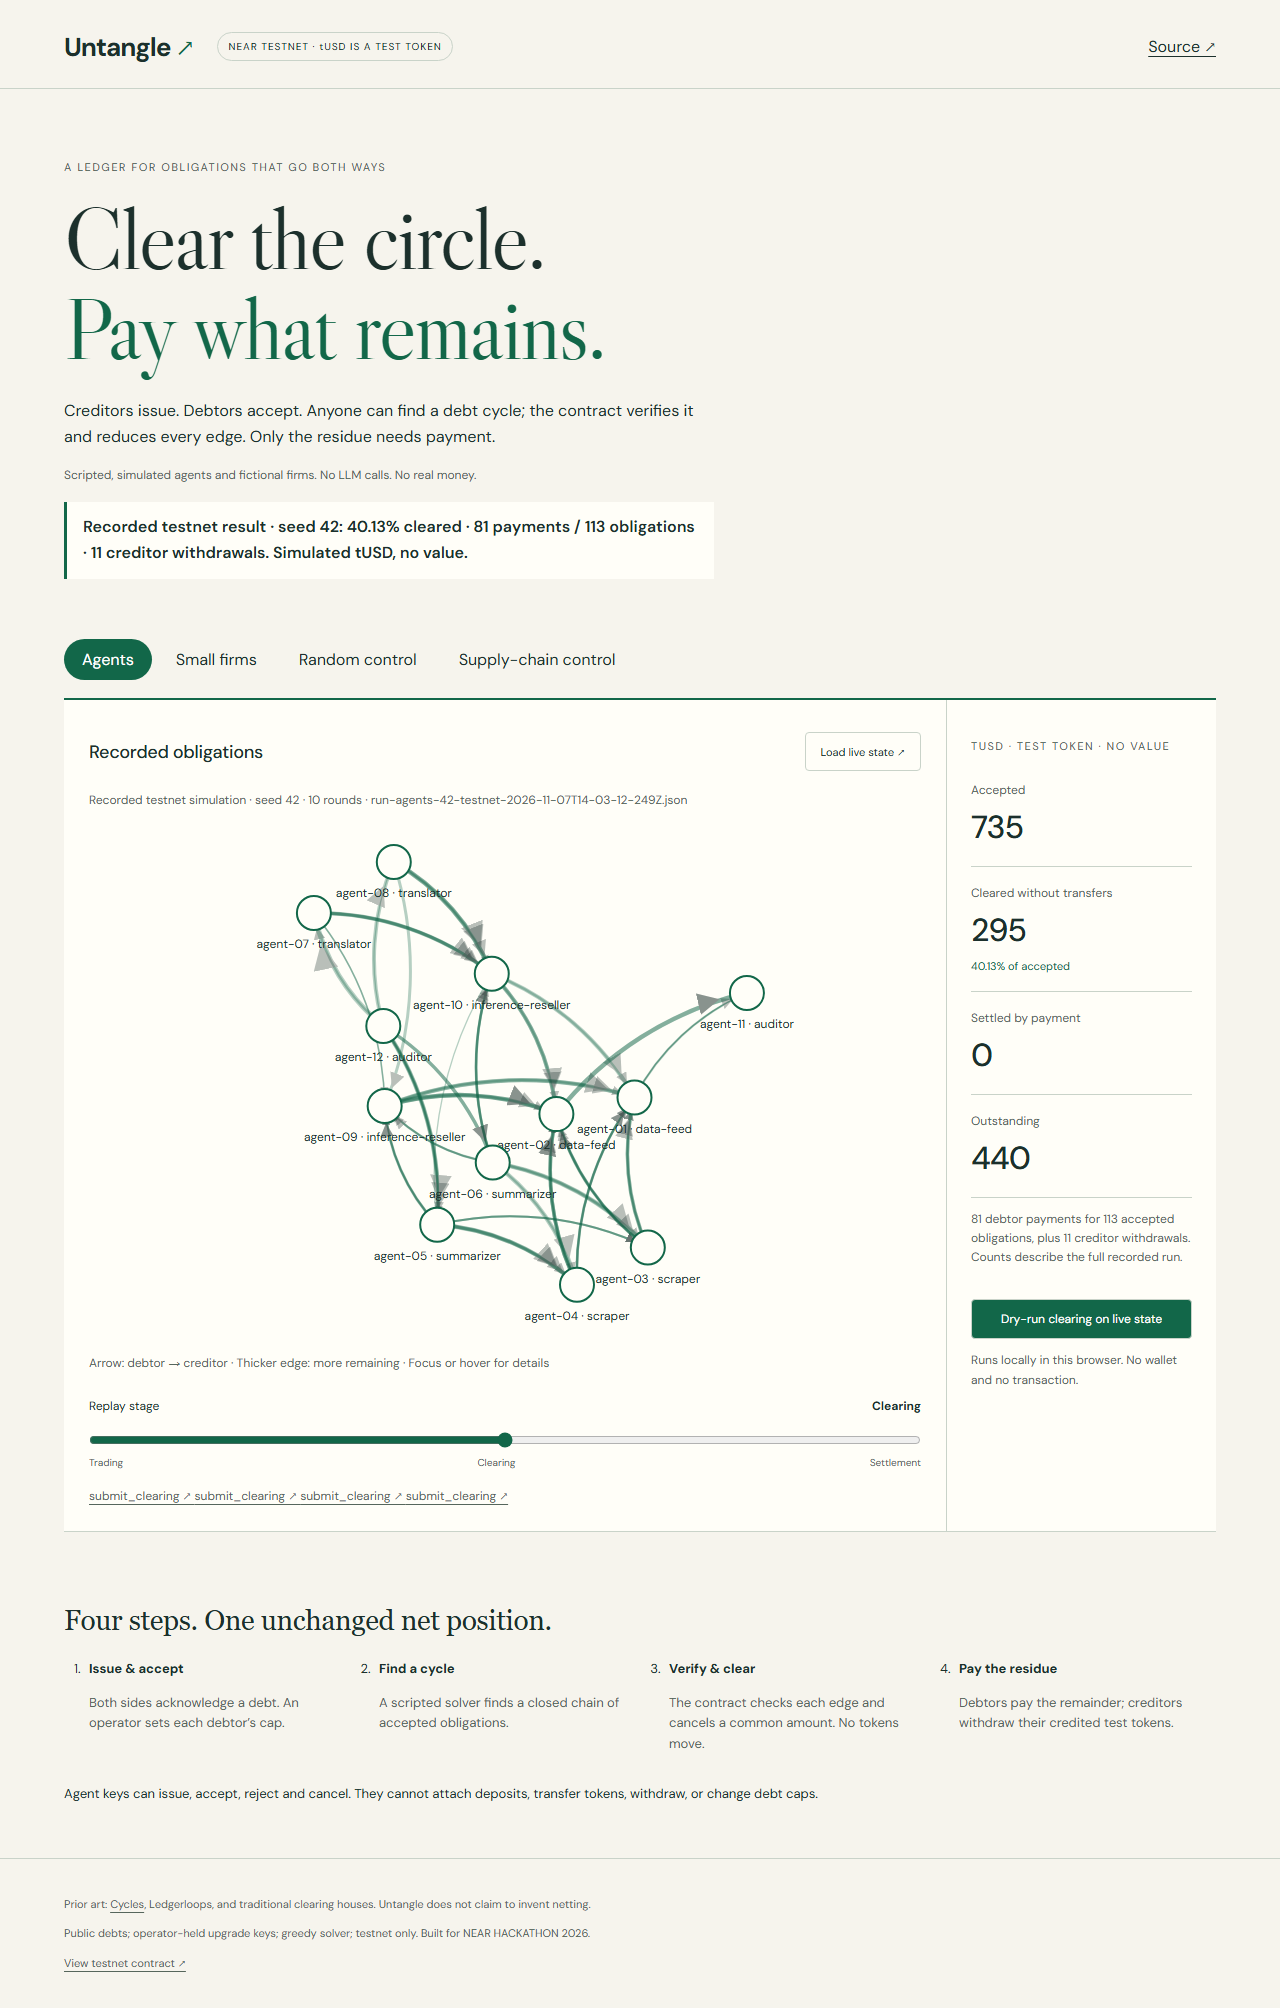
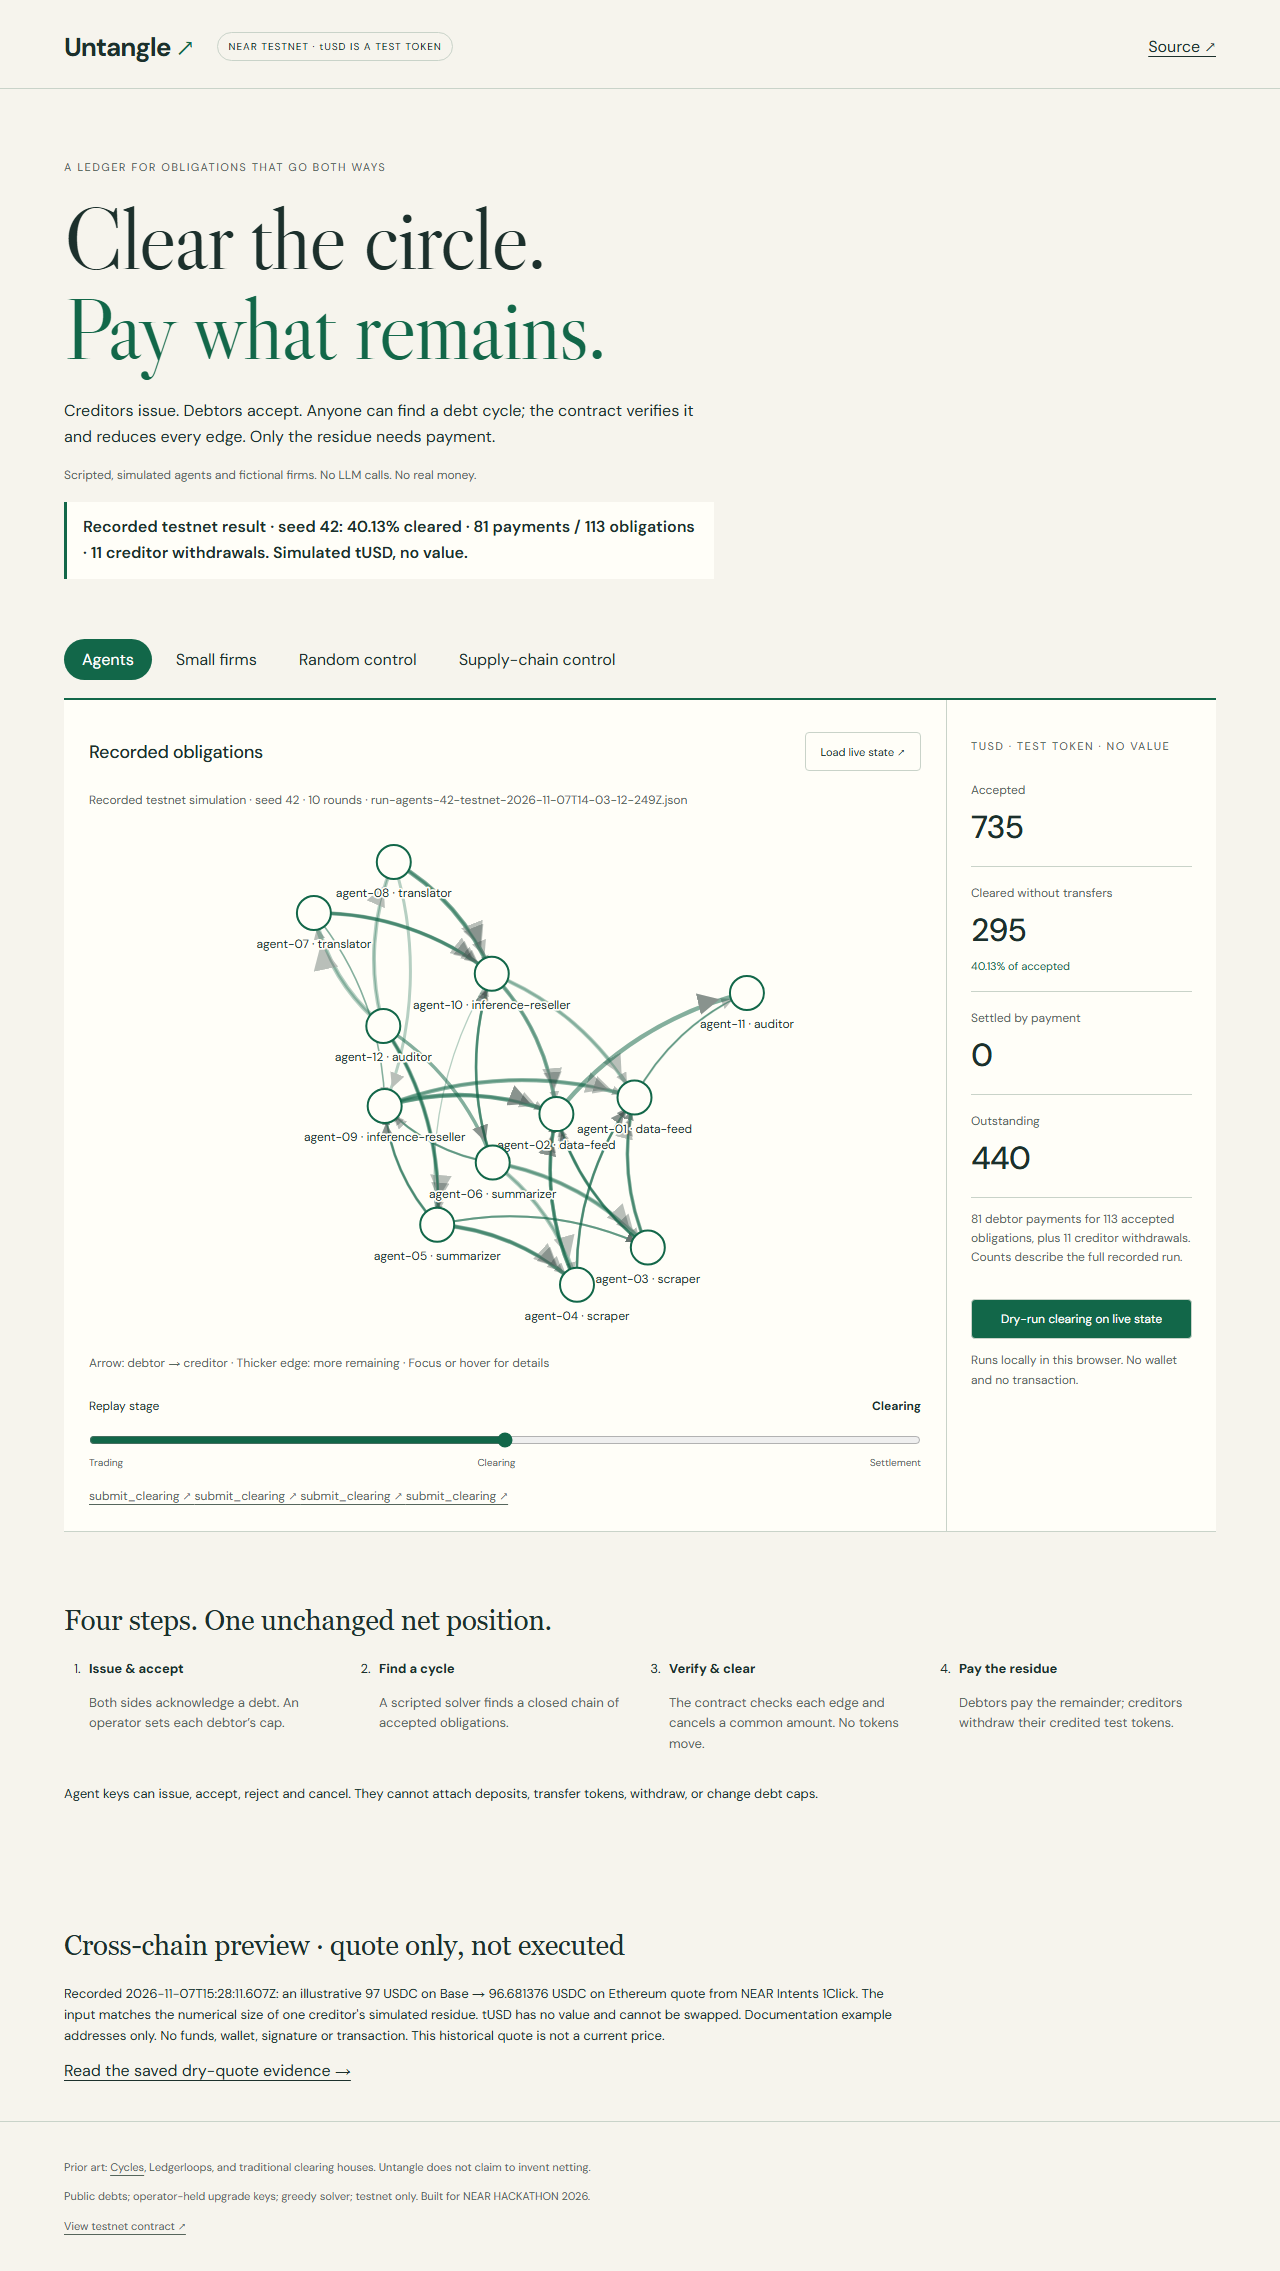
docs(evidence): record final hosted checks and release handoff

diff --git a/planning/execution/handoff.md b/planning/execution/handoff.md
@@ -1,22 +1,13 @@
 # Handoff — 2026-11-07
 
-Current state: contract/token deployed; unit, sandbox, parity, scoped-key and gas gates passed. Agent testnet seed42 complete:735 accepted,295 cleared,440 settled,81 payments,11 withdrawals,zero outstanding. Evidence pushed dad33ad; portability changes pushed d1bed5e.
+Current state: core build, agent and firms testnet runs, independent reviews, all six Claude fixes, optimal comparison, and recorded Intents dry quote completed. Public viewer: https://untangle-dusky-three.vercel.app . Latest deployed bundle passed browser checks at 360/1280, including headline, unique identities, quote, no overflow/errors. No X post or form submission sent.
 
-Public viewer: https://untangle-dusky-three.vercel.app (Vercel Hobby). Unauthenticated HTTP200 and hosted browser checks at360/1280 passed. Static bundle secret scan clean.
+Last green commands: pnpm typecheck; pnpm -r test (14 tests); verify-fixtures (12 matched); pnpm check; pnpm run build:web; hosted-check.cjs; gitleaks history (16 commits, no leaks); pnpm audit --json (zero JS advisories). Full earlier CI42384682716 passed48+2unit, sandbox flow,1000 parity operations. New pushed commits trigger CI; do not describe their still-running CI as passed. Clean clone b25d354 quick check passed49seconds with11tests and clean git status before/after.
 
-Last green command: bash scripts/judge.sh --quick in clean Linux Ext4 review clone with optimized solver:10 TS tests, typechecks,12 fixtures, local agents42 passed in60seconds with cached dependencies. Initial solver2077.831ms failure retained; optimization passed710.866ms without fixture changes. Cold mounted-filesystem quick took861seconds, not an under2min claim.
+Evidence: Claude's original report is verbatim in claude-review-2026-11-07.md, committed0ba4cf8 and linked README. Final stretch checks in stretch-check-2026-11-07.log; optimal.md/json; intents-quote.md/json; hosting-2026-11-07.md; browser-hosted.json. Firms42:653 accepted,265 cleared,388 settled,52 payments,6 withdrawals,zero outstanding/custody. Agents42:735 accepted,295 cleared,440 settled,81 payments,11 withdrawals,zero outstanding/custody.
 
-Full previous clean Linux judge and CI811d7d5 passed (47+2 unit, sandbox flow,25x40 parity). Later local unit regression run48+2 has separate output. Rust now stable, package minimum1.95; Node>=22.22.2.
+Exact next action: human reviews submission/x-post-draft.md and provides video/public X post URL, lead name, email, existing mainnet payout account and explicit consent. Then complete ignored .submission/application.draft.json, print for approval, and submit only after explicit yes. Preserve requestId. Do not commit the personal payload. No website field.
 
-Next exact action: finish firms seed42 testnet using single runner .tools/run-firms.sh, finalize evidence, update intended realworld track. Testnet setup was funded via faucet; resumed after insufficient funds and overlapping-run temporary-file issue. CLI now prevents concurrent identical runs; journal uses absolute/process-specific temporary paths. Review follow-up checks these changes.
+Remaining limitations: native test-only crypto-bigint advisory has no compatible upstream fix and is absent from contract WASM trees. GitHub advertised a critical Dependabot alert; its private API returned403, identity unverified; JS audit returnedzero. LP is restricted to safe integer capacities; no cross-chain funds moved. Quote is recorded, historical and illustrative, not a tUSD swap.
 
-Blockers: follow-up Claude CLI not logged in; human's original independent review is recorded. cargo audit has one native test-only crypto-bigint advisory, absent from both WASM trees; incompatible patched major documented. No host authorization blocker remains.
-
-After firms: ensure current CI/checks green, stretch optimal comparison then dry-only Intents quote, rebuild/redeploy viewer, prepare unsent X/submission drafts. Publishing viewer and pushing are explicitly authorized; posting X/submitting/mainnet still require explicit yes. Do not commit personal submission fields.
-Latest gate: firms run COMPLETE, final evidence run-firms-42-testnet-2026-11-07T15-20-37-119Z. CI42384682716 GREEN. Claude sixfixes implemented; sourceattachmentnotvisible so human-relayedfindings transcribed transparently in requestedreviewpath until originalpathprovided. Next: cleanclone quick verifying gitstatusclean, then LPcomparison and dryquote. No active testnet process. Global CLI lock and boundedrename retries reviewed (2clienttests).
-
-2026-11-07 review evidence: original Claude review supplied verbatim by the human and saved exactly in docs/evidence/claude-review-2026-11-07.md; README already links it. Independent Codex clean clone b25d354: bash scripts/judge.sh --quick passed in 49 seconds, 11 tests, typechecks, 12 fixtures, agents seed 42; git status empty before and after. Reports: clean-quick-2026-11-07.md/.log. Next: optimal comparison, then dry-only quote. No review-authentication blocker remains.
-
-2026-11-07 stretch 1 GREEN: pnpm typecheck passed; pnpm exec vitest run packages/solver/src/optimal.test.ts: 3 passed; compare-optimal.ts validated all 12 plans. Agents42 greedy295 vs LP321; firms42 265 vs310; supply-chain all0. Evidence optimal.md/json. Stretch2 dry quote recorded:97 USDC Base to96.681376 USDC Ethereum, illustrative residue sizing only, no deposit address/funds/signature. Next: full TS checks, viewer build/hosting, drafts. Human's verbatim Claude report committed0ba4cf8.
-
-2026-11-07 stretch 2 checks GREEN: .tools/final-check.sh exited0 (pnpm typecheck; pnpm -r test:14 tests; verify-fixtures:12 matched; pnpm check; production build). Raw output docs/evidence/stretch-check-2026-11-07.log. Static bundle gitleaks scanned521181bytes, no leaks. Recorded Intents dry quote shown in viewer; final Vercel redeploy underway. Unsent X draft in submission/x-post-draft.md; personal application draft ignored under .submission/. Next exact action: verify public hosted quote/headline/mobile, commit/push final evidence, then ask human for X/video and personal submission fields plus consent. No X post/form/mainnet action taken.
+Authorizations: pushes and free viewer hosting approved. X posting, form submission and mainnet actions still need explicit confirmation. No further implementation gate requires a human decision.

diff --git a/planning/execution/task-ledger.md b/planning/execution/task-ledger.md
@@ -39,3 +39,5 @@ Viewer build/browser gate (local) GREEN: Vite production build passed; browser c
 2026-11-07 stretch 1 GREEN: pnpm typecheck passed; pnpm exec vitest run packages/solver/src/optimal.test.ts: 3 passed; compare-optimal.ts validated all 12 plans. Agents42 greedy295 vs LP321; firms42 265 vs310; supply-chain all0. Evidence optimal.md/json. Stretch2 dry quote recorded:97 USDC Base to96.681376 USDC Ethereum, illustrative residue sizing only, no deposit address/funds/signature. Next: full TS checks, viewer build/hosting, drafts. Human's verbatim Claude report committed0ba4cf8.
 
 2026-11-07 stretch 2 checks GREEN: .tools/final-check.sh exited0 (pnpm typecheck; pnpm -r test:14 tests; verify-fixtures:12 matched; pnpm check; production build). Raw output docs/evidence/stretch-check-2026-11-07.log. Static bundle gitleaks scanned521181bytes, no leaks. Recorded Intents dry quote shown in viewer; final Vercel redeploy underway. Unsent X draft in submission/x-post-draft.md; personal application draft ignored under .submission/. Next exact action: verify public hosted quote/headline/mobile, commit/push final evidence, then ask human for X/video and personal submission fields plus consent. No X post/form/mainnet action taken.
+
+2026-11-07 final hosted verification GREEN; stretch1/2 complete, unsent drafts prepared. Next: human video/X/personal fields and consent; see handoff. Latest checks14TS,12fixtures,build,hosted360/1280,secretscan,JSaudit passed. New CI runs not yet asserted green.

diff --git a/docs/evidence/hosting-2026-11-07.md b/docs/evidence/hosting-2026-11-07.md
@@ -11,3 +11,5 @@ Unauthenticated Node fetch returned HTTP 200 at that URL without redirect to log
 Before upload, `gitleaks dir packages/web/dist --config .gitleaks.toml --redact --no-banner` scanned 444,871 bytes and reported no leaks. A targeted bundle search found no private_key, .keys/, BEGIN PRIVATE or secretKey strings. Only the static build directory was uploaded, not local key stores.
 
 Public-host browser verification passed at 360px and 1280px: HTTP 200 without login, visible graph, scenario switching, no horizontal overflow and no page errors. See browser-hosted.json and viewer-hosted-360.png/viewer-hosted-1280.png. The ad-hoc check used cached Playwright 1.61.1 with installed Chromium headless shell 1254; earlier project browser checks used the pinned Playwright version. Local live-RPC and fallback checks are saved separately.
+
+Final stretch deployment: dpl_84gBs614qc6o25bhhTbTJ55uG5o5, READY, same public production URL. Bundle scan521181bytes/no leaks. Hosted browser check passed360/1280:40.13% headline,81/113payments/obligations,12unique account-role labels,scenario switching,recorded dry quote97->96.681376USDC,noerrors/nooverflow. Latest recorded firms data is testnet. See updated browser-hosted.json and screenshots. No keys uploaded.

diff --git a/docs/evidence/security-audit-2026-11-07.md b/docs/evidence/security-audit-2026-11-07.md
@@ -11,3 +11,5 @@
 The full JSON audit is rust-audit.json. This assessment does not claim that every transitive dependency is vulnerability-free.
 
 Registry follow-up on 2026-11-07: crates.io reports latest stable near-sdk 5.30.1 and near-vm-runner 0.38.0, both already pinned/in use. Latest stable crypto-bigint is 0.7.10 (patched series), but elliptic-curve 0.13.8 requires crypto-bigint ^0.5. There is no newer stable SDK/VM pair available from this registry check to carry the incompatible crypto dependency upgrade. Sources: crates.io API `/api/v1/crates/{crate}` and `/api/v1/crates/elliptic-curve/0.13.8/dependencies`.
+
+Additional dependency check after stretch: pnpm audit --json exited0 with zero vulnerabilities (npm-audit-2026-11-07.json). GitHub push advertised one critical Dependabot alert; gh API read returned403 with current token, so its identity has not been verified and is not assumed to match the Rust advisory. No authentication scopes were changed. Existing native-only cargo advisory remains documented.
